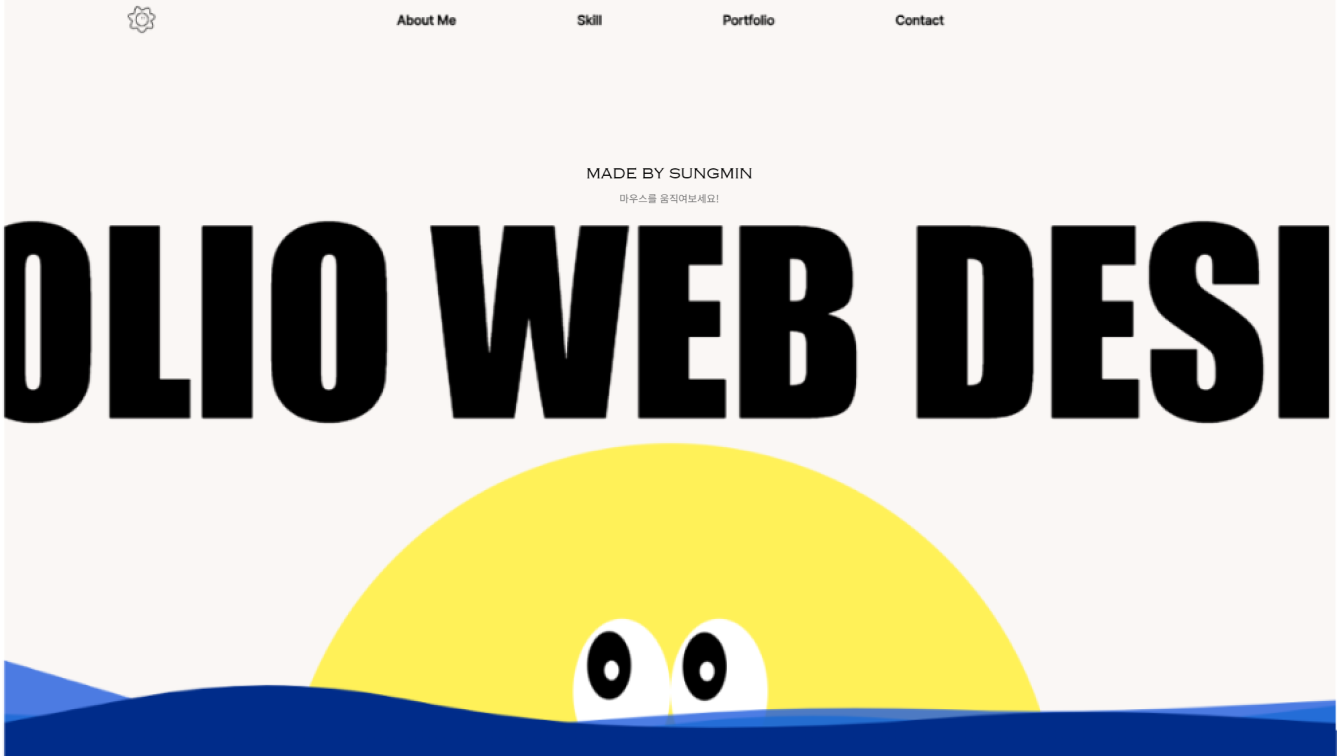
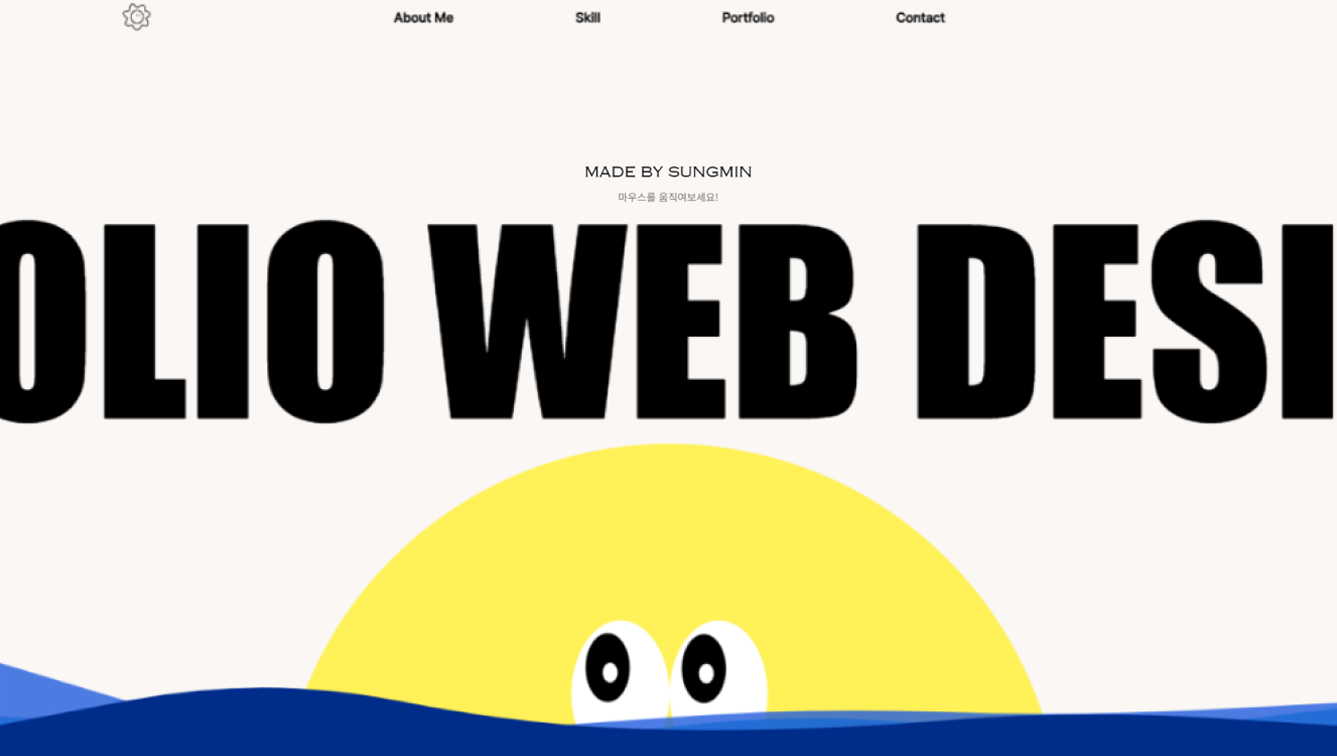
234

diff --git a/scss/index.scss b/scss/index.scss
@@ -203,16 +203,16 @@ body {
                     position: relative;
                     height:40vh; 
                     @include responsive(large-screens) {
-                    display: none;
+                        display: none;
                     }
                     
                     li {
-                    display: block;
-                    height: calc(100% / 4);
-                    min-height: 50px;
-                    position: relative;
-                    opacity: 0;
-                    // background-color: #00A3A0;
+                        display: block;
+                        height: calc(100% / 4);
+                        min-height: 50px;
+                        position: relative;
+                        opacity: 0;
+                        // background-color: #00A3A0;
                     @include responsive(large-screens) {
                     
                     }
@@ -302,8 +302,8 @@ body {
                 background-color: #FAF7F5;
                 
                 @include responsive(large-screens) {
-                    height: 1200px;
-                    
+                    height: 1000px;
+                   
                 }
                 
                 canvas {

diff --git a/css/index.css b/css/index.css
@@ -342,7 +342,7 @@ body header .wave {
 }
 @media only screen and (min-width: 1024px) {
   body header .wave {
-    height: 1200px;
+    height: 1000px;
   }
 }
 body header .wave canvas {
